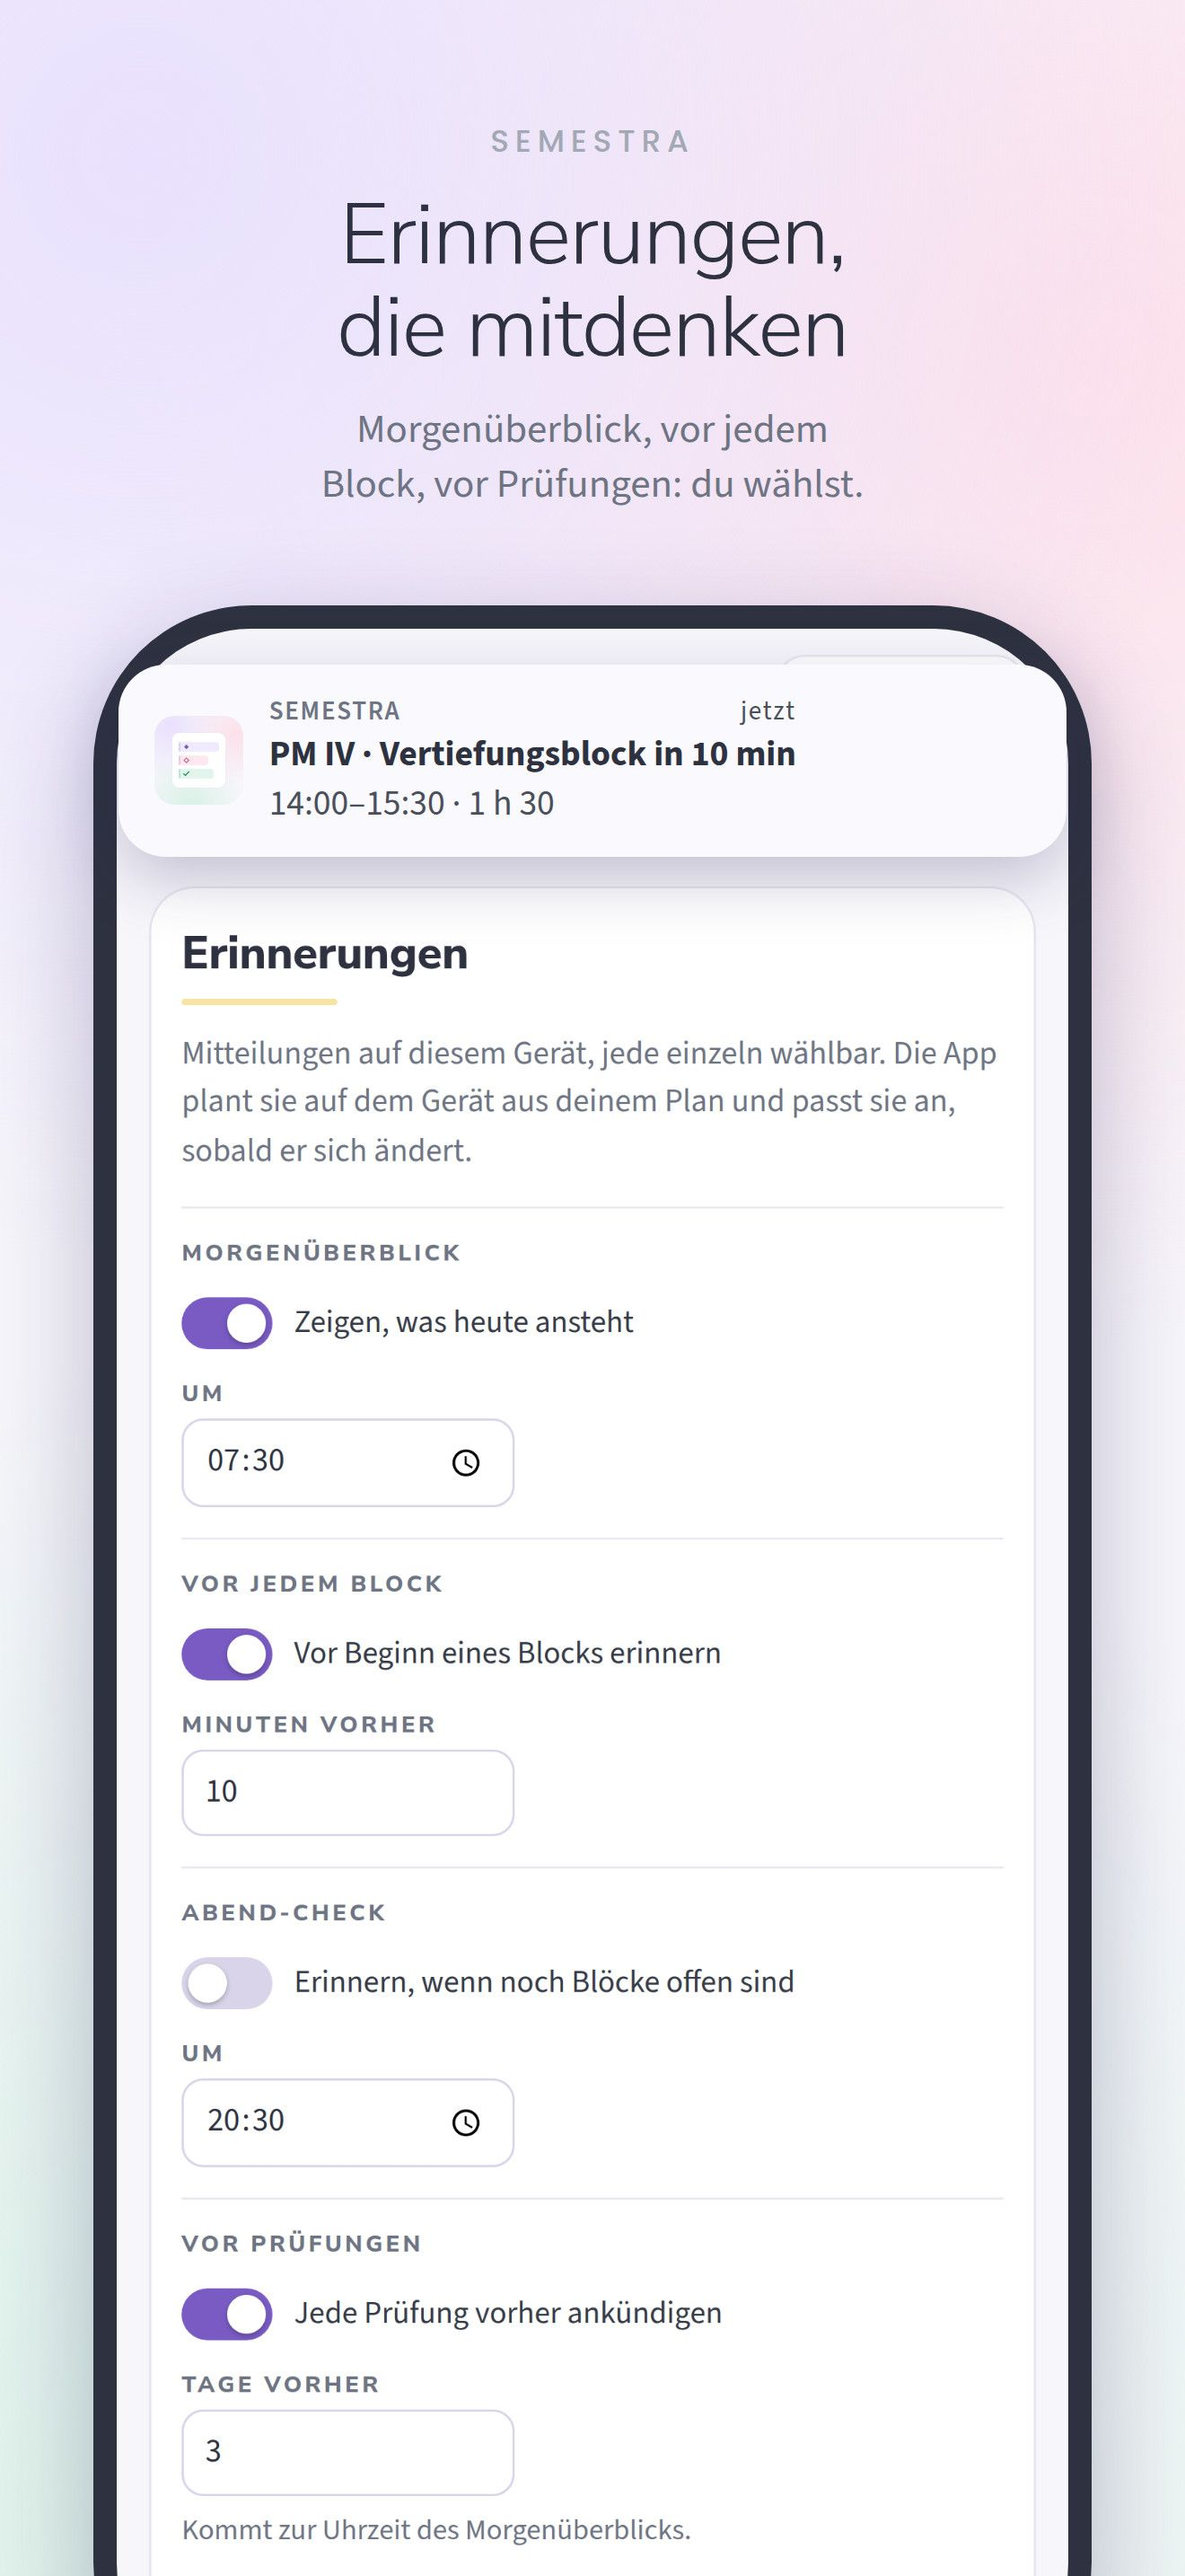
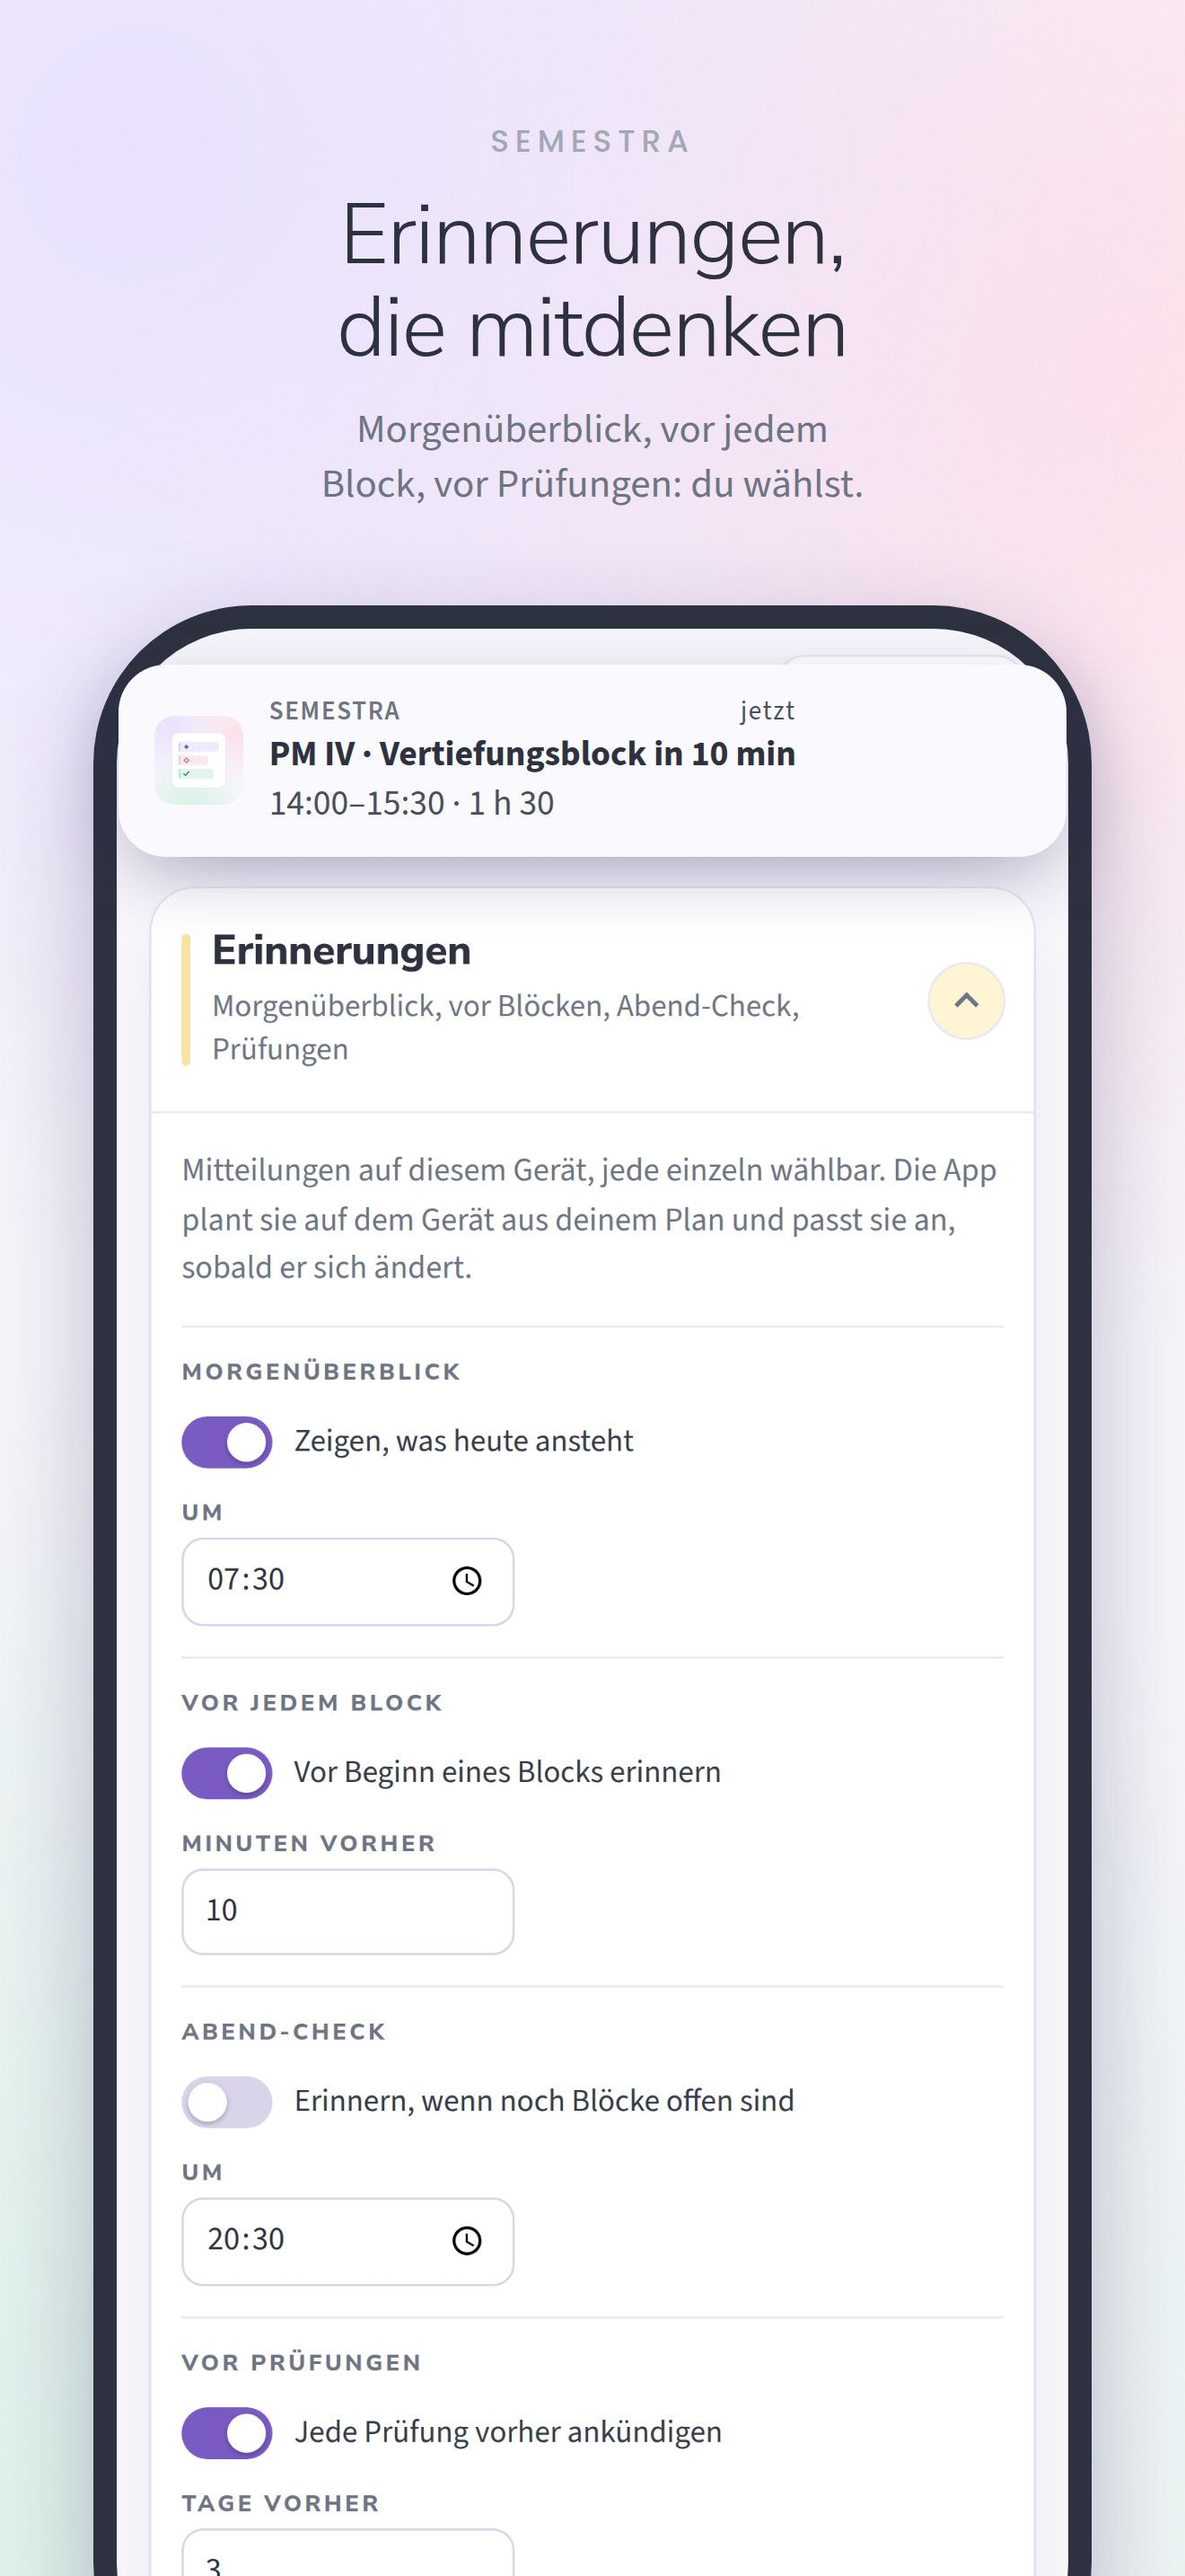
Fold the Setup sections: heading and a one-line hint, open on tap
Setup was everything at once. Each section (how it works, exams,
timetable, daily rhythm, flashcards, reminders, look, data) is now a card
with its title, a short line on what it covers and an arrow; it opens on
tap and stays open while the app runs. Links from other pages open the
section they jump to, and jumps land below the sticky tab bar. Store
screenshot and flyer scripts open the sections they need.

Claude-Session: https://claude.ai/code/session_01E171zcFhx6uJd6jSp7rjZZ

Changed region(s): [[0.1553, 0.3414, 0.8697, 1.0], [0.528, 0.6827, 0.5902, 0.7137], [0.528, 0.6206, 0.5902, 0.6517]]

diff --git a/src/ui/views/Setup.tsx b/src/ui/views/Setup.tsx
@@ -10,6 +10,7 @@ import * as A from '../../state/actions';
 import { setUI, toast } from '../../state/store';
 import { useCtx } from '../ctx';
 import { av, Box, CommitInput, esc, exFull, exLabel, Fld, Html, numOr, PickInput, Toggle } from '../parts/common';
+import { Fold, setFold } from '../parts/Fold';
 import { deckLabel, examById } from '../parts/labels';
 import { DataSection } from './SetupData';
 
@@ -21,6 +22,7 @@ export function SetupView() {
   useEffect(() => {
     if (!ui.anchor) return;
     const id = ui.anchor;
+    setFold(id, true); // a link to a section opens it
     requestAnimationFrame(() => {
       document.getElementById(id)?.scrollIntoView({ block: 'start' });
       setUI({ anchor: '' });
@@ -28,9 +30,7 @@ export function SetupView() {
   }, [ui.anchor]);
   return (
     <div className="stack">
-      <section className="card">
-        <div className="kicker">{t('setup.howKicker')}</div>
-        <h2 className="h2">{t('setup.howTitle')}</h2>
+      <Fold id="sec-how" color="lilac" title={t('setup.howKicker')} hint={t('fold.how')}>
         <ol className="steps">
           <li>
             <b>1 · {t('setup.step1')}</b>
@@ -49,7 +49,7 @@ export function SetupView() {
             {t('setup.step4b')}
           </li>
         </ol>
-      </section>
+      </Fold>
       <ExamsSection />
       <TimetableSection />
       <RhythmSection />
@@ -90,11 +90,10 @@ export function ExamsSection({ compact }: { compact?: boolean }) {
   );
   if (compact) return body;
   return (
-    <section className="card" id="sec-exams" style={av('lav')}>
-      <h2 className="h2">{t('ex.title')}</h2>
+    <Fold id="sec-exams" color="lav" title={t('ex.title')} hint={t('fold.exams')}>
       <Html as="p" className="sub" html={t('ex.sub')} />
       {body}
-    </section>
+    </Fold>
   );
 }
 
@@ -263,8 +262,7 @@ function TimetableSection() {
   for (const c of Object.keys(st.courses)) if (c) codes.add(c);
   const online = (code: string) => wks.some((k) => (data.weeks[k].items || []).some((x) => x.t === code && x.on));
   return (
-    <section className="card" id="sec-tt" style={av('grey')}>
-      <h2 className="h2">{t('tt.title')}</h2>
+    <Fold id="sec-tt" color="grey" title={t('tt.title')} hint={t('fold.tt')}>
       <p className="sub">{t('tt.sub')}</p>
       <IcsImport />
       <p className="small muted" style={{ margin: '10px 0 0' }}>
@@ -371,7 +369,7 @@ function TimetableSection() {
           </p>
         )}
       </div>
-    </section>
+    </Fold>
   );
 }
 
@@ -428,8 +426,7 @@ function RhythmSection() {
   const { t } = i18n;
   const st = data.settings;
   return (
-    <section className="card" id="sec-rhythm" style={av('mint')}>
-      <h2 className="h2">{t('rh.title')}</h2>
+    <Fold id="sec-rhythm" color="mint" title={t('rh.title')} hint={t('fold.rhythm')}>
       <p className="sub">{t('rh.sub')}</p>
       <Grp label={t('rh.caps')} first>
         <div className="fgrid">
@@ -491,7 +488,7 @@ function RhythmSection() {
           </Toggle>
         </div>
       </Grp>
-    </section>
+    </Fold>
   );
 }
 
@@ -635,11 +632,10 @@ function CardsSection() {
   const { i18n } = useCtx();
   const { t } = i18n;
   return (
-    <section className="card" id="sec-cards" style={av('sky')}>
-      <h2 className="h2">{t('fc.title')}</h2>
+    <Fold id="sec-cards" color="sky" title={t('fc.title')} hint={t('fold.cards')}>
       <p className="sub">{t('fc.sub')}</p>
       <CardsFields />
-    </section>
+    </Fold>
   );
 }
 
@@ -670,8 +666,7 @@ function RemindersSection() {
     </div>
   );
   return (
-    <section className="card" id="sec-reminders" style={av('butter')}>
-      <h2 className="h2">{t('rem.title')}</h2>
+    <Fold id="sec-reminders" color="butter" title={t('rem.title')} hint={t('fold.reminders')}>
       <p className="sub">{t('rem.sub')}</p>
       {anyOn && perm === 'denied' && (
         <div className="notes" style={{ margin: '0 0 6px' }}>
@@ -686,7 +681,7 @@ function RemindersSection() {
         {item('evening', t('rem.evening'), t('rem.eveningOn'), <TimeSet path="reminders.eveningAt" label={t('rem.at')} />)}
         {item('exam', t('rem.exam'), t('rem.examOn'), <NumSet path="reminders.examDays" label={t('rem.examDays')} min={1} max={14} step={1} />, t('rem.examHint'))}
       </div>
-    </section>
+    </Fold>
   );
 }
 
@@ -722,8 +717,7 @@ function PrefsSection() {
   const { t } = i18n;
   const st = data.settings;
   return (
-    <section className="card" id="sec-prefs" style={av('peach')}>
-      <h2 className="h2">{t('pref.title')}</h2>
+    <Fold id="sec-prefs" color="peach" title={t('pref.title')} hint={t('fold.prefs')}>
       <LangRegion />
       <p className="small muted" style={{ margin: '8px 0 0' }}>
         {t('pref.regionHelp')}
@@ -740,7 +734,7 @@ function PrefsSection() {
           <CommitInput id="set-termName" value={st.termName} maxLength={60} placeholder={t('pref.termNamePh')} onCommit={(v) => A.setSetting('termName', v.trim())} />
         </Fld>
       </div>
-    </section>
+    </Fold>
   );
 }
 

diff --git a/src/styles/app.css b/src/styles/app.css
@@ -116,3 +116,20 @@ input::-webkit-date-and-time-value{text-align:left;min-height:1.4em}
 .pane{overscroll-behavior:contain;-webkit-overflow-scrolling:touch}
 /* grab handle: phone sheets can be pulled down to close (Panes.tsx) */
 @media (max-width:699px){.pane::before{content:"";display:block;width:36px;height:5px;border-radius:3px;background:var(--line-2);margin:-8px auto 12px}}
+
+/* Setup sections that fold open (parts/Fold.tsx): heading with an accent bar and a one-line hint, arrow on the right */
+.card.fold{padding:0;scroll-margin-top:calc(env(safe-area-inset-top,0px) + 76px)} /* jumps land below the sticky tab bar */
+.fold-h{margin:0;font:inherit}
+.fold-h button{display:flex;align-items:center;gap:14px;width:100%;padding:18px clamp(14px,3vw,22px);border:0;border-radius:20px;background:transparent;color:inherit;font:inherit;text-align:left;cursor:pointer;-webkit-tap-highlight-color:transparent}
+.fold-h button:focus-visible{outline:2px solid var(--acc,var(--lav));outline-offset:-3px}
+.fold-t{position:relative;flex:1;min-width:0;padding-left:14px}
+.fold-t::before{content:"";position:absolute;left:0;top:3px;bottom:3px;width:4px;border-radius:4px;background:var(--acc-mid,var(--lav-mid))}
+.fold-title{display:block;font:800 19px/1.25 var(--f-head);color:var(--ink-strong);letter-spacing:-.005em}
+.fold-hint{display:block;margin-top:3px;font-size:14.5px;line-height:1.4;color:var(--ink-soft)}
+.fold-chev{position:relative;flex:none;width:34px;height:34px;border-radius:50%;background:var(--sunk);box-shadow:0 0 0 1px var(--line);transition:background-color .15s ease,transform .25s ease}
+.fold-chev::before{content:"";position:absolute;left:50%;top:50%;width:8px;height:8px;border-right:2px solid var(--ink-soft);border-bottom:2px solid var(--ink-soft);transform:translate(-50%,-70%) rotate(45deg)}
+.fold-h button:hover .fold-chev{background:var(--acc-bg,var(--lav-bg))}
+.fold.open .fold-chev{transform:rotate(180deg);background:var(--acc-bg,var(--lav-bg))}
+.fold.open .fold-h button{border-radius:20px 20px 0 0}
+.fold-body{padding:16px clamp(14px,3vw,22px) 20px;border-top:1px solid var(--line)}
+.fold-body > .sub:first-child{margin-top:0}

diff --git a/src/ui/parts/Fold.tsx b/src/ui/parts/Fold.tsx
@@ -1,0 +1,41 @@
+// A Setup section that shows only its heading and a one-line hint until it is opened. Which sections are open is
+// remembered while the app runs (switching tabs keeps them), not stored.
+import { useEffect, useReducer, type ReactNode } from 'react';
+import type { PaletteKey } from '../../core/types';
+import { av } from './common';
+
+const open = new Set<string>();
+const subs = new Set<() => void>();
+
+export function setFold(id: string, on: boolean): void {
+  if (on) open.add(id);
+  else open.delete(id);
+  subs.forEach((f) => f());
+}
+
+export function Fold({ id, color, title, hint, children }: { id: string; color?: PaletteKey | 'grey'; title: string; hint: string; children: ReactNode }) {
+  const [, redraw] = useReducer((x: number) => x + 1, 0);
+  useEffect(() => {
+    subs.add(redraw);
+    return () => {
+      subs.delete(redraw);
+    };
+  }, []);
+  const on = open.has(id);
+  return (
+    <section className={`card fold${on ? ' open' : ''}`} id={id} style={av(color)}>
+      <h2 className="fold-h">
+        <button type="button" id={`${id}-toggle`} aria-expanded={on} aria-controls={`${id}-body`} onClick={() => setFold(id, !on)}>
+          <span className="fold-t">
+            <span className="fold-title">{title}</span>
+            <span className="fold-hint">{hint}</span>
+          </span>
+          <span className="fold-chev" aria-hidden="true" />
+        </button>
+      </h2>
+      <div className="fold-body" id={`${id}-body`} hidden={!on}>
+        {children}
+      </div>
+    </section>
+  );
+}

diff --git a/src/i18n/de.ts b/src/i18n/de.ts
@@ -186,7 +186,14 @@ export const de: Dict = {
   'year.tip': (w: string, range: string, total: string, cards: string) => `<b>${w} · ${range}</b><br>${total} gesamt · Karteikarten ${cards}`,
 
   'setup.howKicker': 'So funktioniert der Plan',
-  'setup.howTitle': 'Bausteine rund um deine Woche',
+  'fold.how': 'Wie deine Lernblöcke rund um deine Woche entstehen',
+  'fold.exams': 'Termine, Lernstunden und Vorbereitungswochen je Prüfung',
+  'fold.tt': 'Kalender importieren, typische Woche, Ferien und LV',
+  'fold.rhythm': 'Wann du lernst, Stunden pro Tag, Blocklängen, Essen, Freizeit',
+  'fold.cards': 'Deine Karteikarten-Stapel, neue Karten und Wiederholungen',
+  'fold.reminders': 'Morgenüberblick, vor Blöcken, Abend-Check, Prüfungen',
+  'fold.prefs': 'Hell oder dunkel, Feiertage und Name deines Semesters',
+  'fold.data': 'Sicherung, Wiederherstellen, Kalender-Export und Neustart',
   'setup.step1': 'Feste tägliche Blöcke',
   'setup.step1b': 'Zuerst die Karteikarten-Wiederholungen, neue Karten nach dem Mittagessen und eine kurze Nachbereitung nach langen LV-Tagen.',
   'setup.step2': 'Vorbereitungsfenster',

diff --git a/src/ui/views/SetupData.tsx b/src/ui/views/SetupData.tsx
@@ -9,8 +9,9 @@ import * as A from '../../state/actions';
 import { setUI, toast } from '../../state/store';
 import { isNative, shareFile } from '../../native';
 import { useCtx } from '../ctx';
+import { Fold } from '../parts/Fold';
 import { LegalLink } from '../Legal';
-import { av, Toggle } from '../parts/common';
+import { Toggle } from '../parts/common';
 import { modTip, modTitle } from '../parts/labels';
 
 const FILE_PREFIX = APP_NAME.toLowerCase().replace(/[^a-z0-9]+/g, '-');
@@ -108,8 +109,7 @@ export function DataSection() {
   );
 
   return (
-    <section className="card" id="sec-data" style={av('lilac')}>
-      <h2 className="h2">{t('data.title')}</h2>
+    <Fold id="sec-data" color="lilac" title={t('data.title')} hint={t('fold.data')}>
       <p className="sub">{t('data.sub')}</p>
       <div className="row-actions" style={{ marginTop: 0 }}>
         <button className="btn soft" onClick={backup}>
@@ -206,6 +206,6 @@ export function DataSection() {
           </button>
         )}
       </div>
-    </section>
+    </Fold>
   );
 }

diff --git a/src/i18n/en.ts b/src/i18n/en.ts
@@ -180,7 +180,14 @@ export const en = {
   'year.tip': (w: string, range: string, total: string, cards: string) => `<b>${w} · ${range}</b><br>${total} total · flashcards ${cards}`,
 
   'setup.howKicker': 'How the plan works',
-  'setup.howTitle': 'Building blocks around your week',
+  'fold.how': 'How your study blocks are built around your week',
+  'fold.exams': 'Dates, study hours and prep weeks for each exam',
+  'fold.tt': 'Import your calendar, typical week, breaks and courses',
+  'fold.rhythm': 'When you study, hours per day, block lengths, meals, time off',
+  'fold.cards': 'Your flashcard decks, new cards and reviews',
+  'fold.reminders': 'Morning overview, before blocks, evening check, exams',
+  'fold.prefs': 'Light or dark, holidays and the name of your semester',
+  'fold.data': 'Backup, restore, calendar export and starting over',
   'setup.step1': 'Fixed daily blocks',
   'setup.step1b': 'Flashcard reviews first, new cards after lunch, and a short follow-up after long class days.',
   'setup.step2': 'Exam windows',

diff --git a/CLAUDE.md b/CLAUDE.md
@@ -75,7 +75,8 @@ node scripts/bmc-banner.mjs     # Buy Me a Coffee cover, DE + EN → store/bmc/ 
 - `src/ui/`:
   - `App.tsx`: the shell, with tabs Today/Week/Year/Setup; the current view is in the URL hash. The tab bar
     sticks while scrolling and then widens into an edge-to-edge top bar (`.tabs.stuck` in `app.css`).
-  - `views/`.
+  - `views/`. Setup sections are `Fold`s (`parts/Fold.tsx`): heading + one-line hint (`fold.*` texts), closed
+    until tapped; `gotoSetup(id)` opens the section it jumps to. Scripts that click into Setup open them first.
   - `Panes.tsx`: dialogs (on phones a bottom sheet with a grab handle; pull down to close).
   - `Onboarding.tsx`: the setup assistant.
   - `Legal.tsx`: imprint and privacy notice (quiet footer links, the legal pane; direct links `#imprint` and
